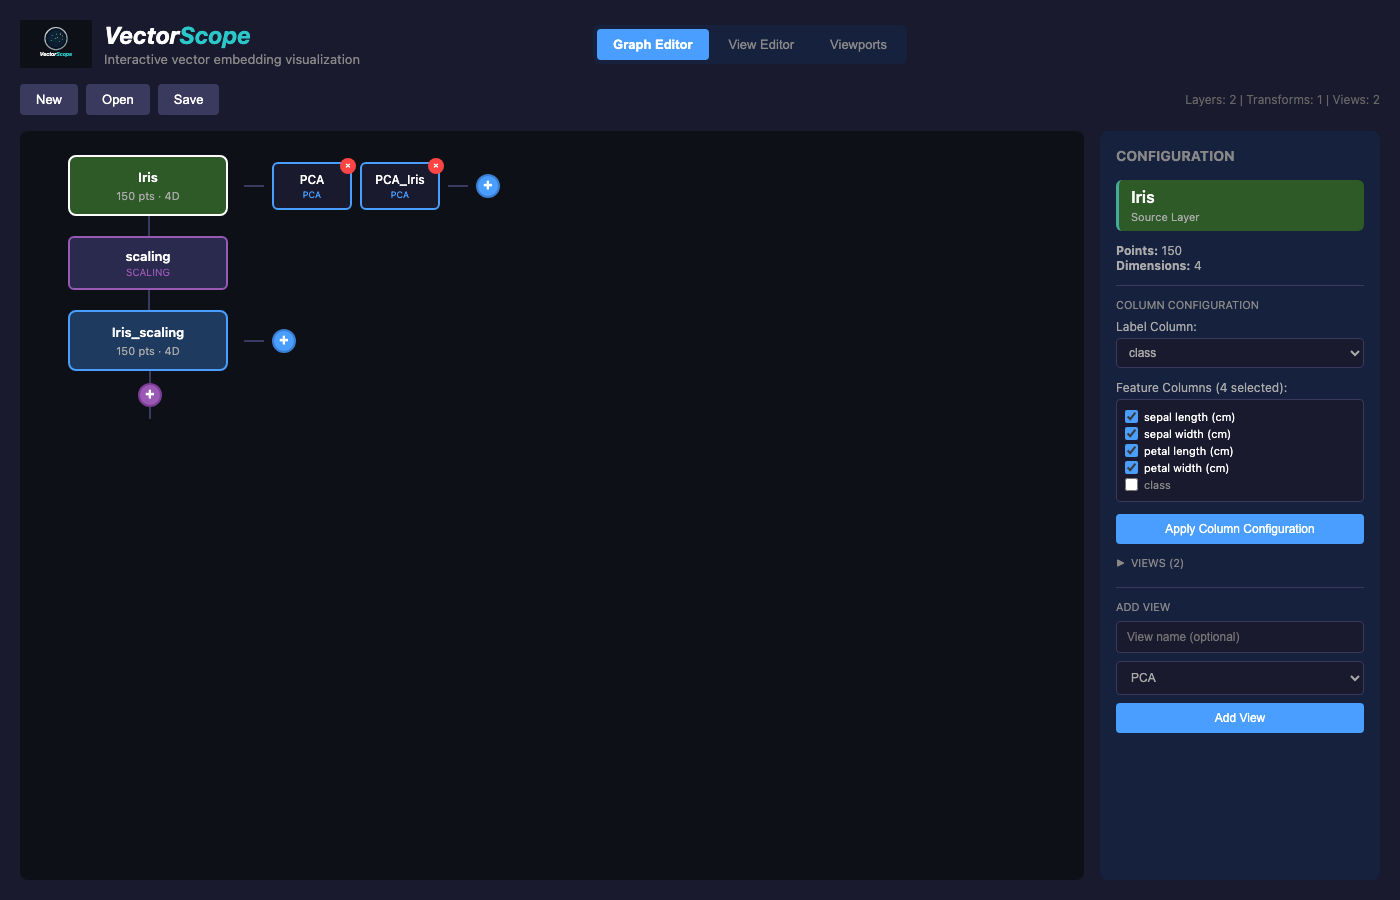
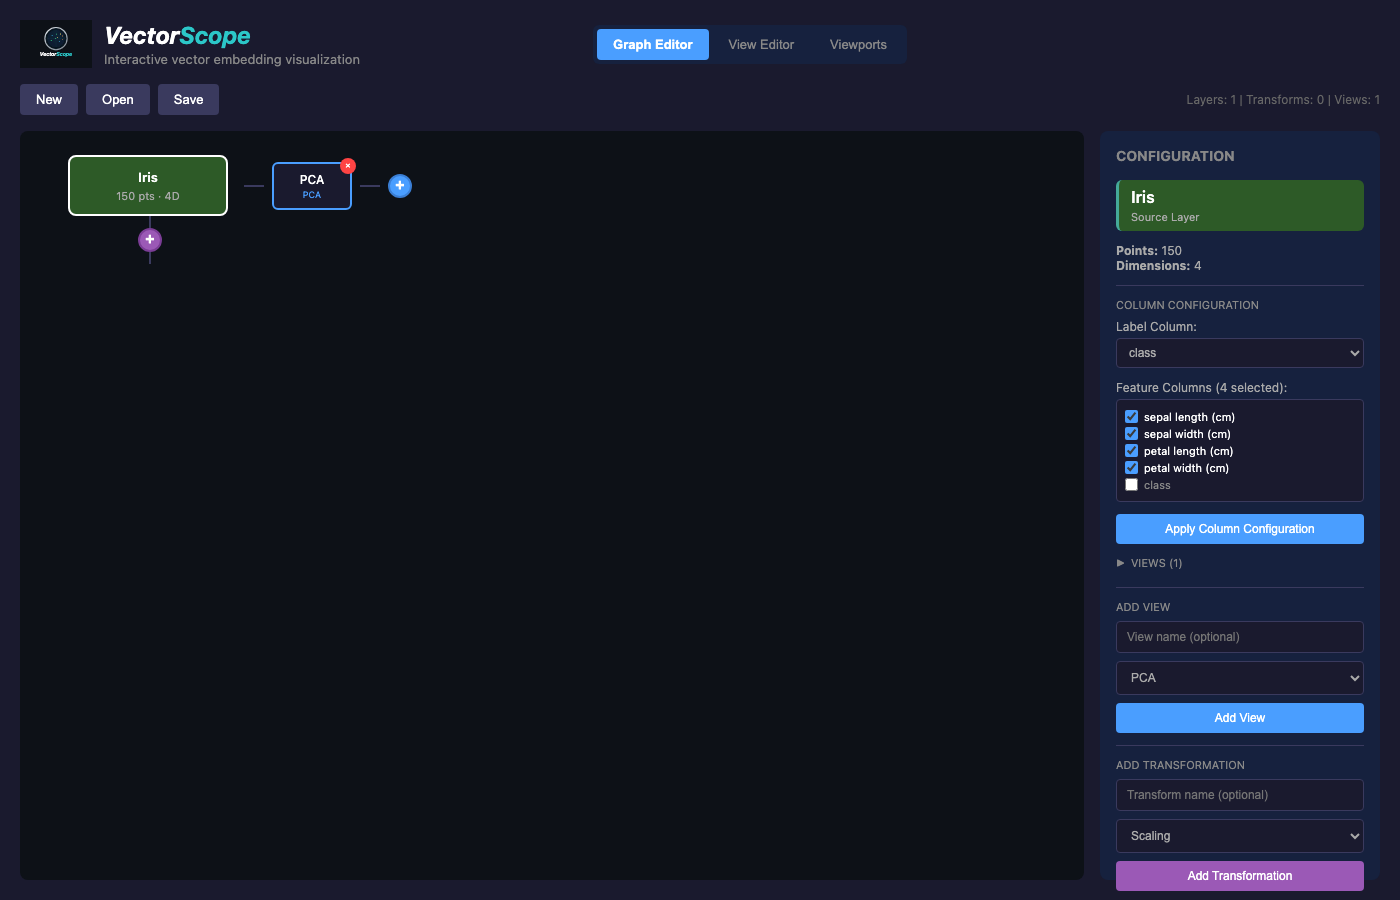
Update quickstart for pip install and refresh screenshots
- Add PyPI installation instructions (Option A) to quickstart
- Clarify development installation (Option B) for full UI
- Update screenshot capture script with better selectors
- Refresh screenshots (view_editor now shows plot, viewports updated)

Note: graph_with_view.png still shows PCA - script needs adjustment
to properly select t-SNE from dropdown before adding view.

🤖 Generated with [Claude Code](https://claude.com/claude-code)

diff --git a/scripts/capture_screenshots.py b/scripts/capture_screenshots.py
@@ -14,7 +14,7 @@ async def capture_screenshots():
     SCREENSHOTS_DIR.mkdir(parents=True, exist_ok=True)
 
     async with async_playwright() as p:
-        browser = await p.chromium.launch()
+        browser = await p.chromium.launch(headless=True)
         page = await browser.new_page(viewport={"width": 1400, "height": 900})
 
         # Navigate to the app
@@ -22,108 +22,123 @@ async def capture_screenshots():
         await page.wait_for_timeout(2000)
 
         # Screenshot 1: Initial empty state with logo
-        await page.screenshot(path=SCREENSHOTS_DIR / "01_initial_state.png")
-        print("Captured: 01_initial_state.png")
+        await page.screenshot(path=SCREENSHOTS_DIR / "initial_state.png")
+        print("Captured: initial_state.png")
 
         # Load Iris dataset
         try:
-            await page.click("button:has-text('Load Dataset')")
+            await page.click("text=Load Dataset")
             await page.wait_for_timeout(500)
-            await page.click("button:has-text('iris')")
-            await page.wait_for_timeout(2000)
+            await page.click("text=iris")
+            await page.wait_for_timeout(2500)
 
             # Screenshot 2: Graph editor with Iris dataset
-            await page.screenshot(path=SCREENSHOTS_DIR / "02_graph_editor_iris.png")
-            print("Captured: 02_graph_editor_iris.png")
+            await page.screenshot(path=SCREENSHOTS_DIR / "graph_editor.png")
+            print("Captured: graph_editor.png")
         except Exception as e:
             print(f"Note: Could not load iris dataset: {e}")
 
-        # Click on the layer node (the green one)
+        # Click on the Iris layer node (look for text containing "Iris")
         try:
-            await page.click("div[data-id]:has(div:has-text('Iris'))", timeout=3000)
+            # Click on the node with "Iris" text
+            await page.click("text=Iris >> nth=0", timeout=5000)
             await page.wait_for_timeout(500)
-            await page.screenshot(path=SCREENSHOTS_DIR / "03_layer_selected.png")
-            print("Captured: 03_layer_selected.png")
         except Exception as e:
             print(f"Note: Could not click layer node: {e}")
+            # Try clicking on the react-flow pane to trigger selection
+            try:
+                await page.click(".react-flow__node >> nth=0", timeout=3000)
+                await page.wait_for_timeout(500)
+            except:
+                pass
 
-        # Add a PCA view from the layer config
+        # Add a t-SNE view
         try:
-            await page.click("button:has-text('Add View')")
-            await page.wait_for_timeout(1500)
-            await page.screenshot(path=SCREENSHOTS_DIR / "04_view_added.png")
-            print("Captured: 04_view_added.png")
+            # Find the view type select in the config panel and change to t-SNE
+            # The select for view type should be visible when layer is selected
+            selects = await page.query_selector_all("select")
+            for select in selects:
+                options = await select.query_selector_all("option")
+                for opt in options:
+                    text = await opt.text_content()
+                    if "tsne" in text.lower() or "t-sne" in text.lower():
+                        await select.select_option(label=text)
+                        await page.wait_for_timeout(300)
+                        break
+
+            await page.click("text=Add View")
+            await page.wait_for_timeout(3000)  # t-SNE takes longer
+
+            # Screenshot 3: Graph with t-SNE view added
+            await page.screenshot(path=SCREENSHOTS_DIR / "graph_with_view.png")
+            print("Captured: graph_with_view.png")
         except Exception as e:
-            print(f"Note: Could not add view: {e}")
+            print(f"Note: Could not add t-SNE view: {e}")
 
         # Add a transformation
         try:
-            await page.click("button:has-text('Add Transformation')")
-            await page.wait_for_timeout(1500)
-            await page.screenshot(path=SCREENSHOTS_DIR / "05_transformation_added.png")
-            print("Captured: 05_transformation_added.png")
+            # Click on Iris layer again
+            await page.click("text=Iris >> nth=0", timeout=3000)
+            await page.wait_for_timeout(500)
+
+            await page.click("text=Add Transformation")
+            await page.wait_for_timeout(2000)
+
+            # Screenshot 4: Graph with transformation added
+            await page.screenshot(path=SCREENSHOTS_DIR / "graph_with_transformation.png")
+            print("Captured: graph_with_transformation.png")
         except Exception as e:
             print(f"Note: Could not add transformation: {e}")
 
-        # Click on transformation node to show config with sliders
+        # Switch to View Editor and select a view
         try:
-            await page.click("div[data-id]:has(div:has-text('scaling'))", timeout=3000)
-            await page.wait_for_timeout(500)
-            await page.screenshot(path=SCREENSHOTS_DIR / "06_scaling_config.png")
-            print("Captured: 06_scaling_config.png")
-        except Exception as e:
-            print(f"Note: Could not show scaling config: {e}")
-
-        # Switch to View Editor
-        try:
-            await page.click("button:has-text('View Editor')")
+            await page.click("text=View Editor")
             await page.wait_for_timeout(1000)
 
-            # Select a view from dropdown
-            await page.select_option("select", index=1)
-            await page.wait_for_timeout(1500)
-            await page.screenshot(path=SCREENSHOTS_DIR / "07_view_editor.png")
-            print("Captured: 07_view_editor.png")
+            # Find the view selector dropdown and select first view
+            # Look for selects that might contain view options
+            selects = await page.query_selector_all("select")
+            for select in selects:
+                options = await select.query_selector_all("option")
+                if len(options) > 1:
+                    # Check if this looks like a view selector
+                    first_opt = await options[0].text_content()
+                    if "view" in first_opt.lower() or "select" in first_opt.lower():
+                        # Select the second option (first actual view)
+                        await select.select_option(index=1)
+                        await page.wait_for_timeout(2000)
+                        break
+
+            # Screenshot 5: View editor with scatter plot
+            await page.screenshot(path=SCREENSHOTS_DIR / "view_editor.png")
+            print("Captured: view_editor.png")
         except Exception as e:
             print(f"Note: Could not switch to view editor: {e}")
 
-        # Switch to Viewports and add multiple views
+        # Switch to Viewports
         try:
-            await page.click("button:has-text('Viewports')")
+            await page.click("text=Viewports")
             await page.wait_for_timeout(1000)
 
-            # Add a viewport
-            await page.click("button:has-text('Add Viewport')")
+            # Add viewport
+            await page.click("text=Add Viewport")
             await page.wait_for_timeout(500)
 
-            # Select a projection for the viewport
+            # Select projections for viewports
             selects = await page.query_selector_all("select")
-            if len(selects) > 0:
-                await selects[0].select_option(index=1)
-            await page.wait_for_timeout(1000)
+            for i, select in enumerate(selects[:2]):
+                options = await select.query_selector_all("option")
+                if len(options) > 1:
+                    await select.select_option(index=min(i + 1, len(options) - 1))
+                    await page.wait_for_timeout(500)
 
-            await page.screenshot(path=SCREENSHOTS_DIR / "08_viewports.png")
-            print("Captured: 08_viewports.png")
+            await page.wait_for_timeout(2000)
+
+            # Screenshot 6: Viewports
+            await page.screenshot(path=SCREENSHOTS_DIR / "viewports.png")
+            print("Captured: viewports.png")
         except Exception as e:
             print(f"Note: Could not set up viewports: {e}")
-
-        # Go back to graph and show a more complex graph
-        try:
-            await page.click("button:has-text('Graph Editor')")
-            await page.wait_for_timeout(500)
-
-            # Click on the derived layer
-            await page.click("div[data-id]:has(div:has-text('scaled'))", timeout=3000)
-            await page.wait_for_timeout(500)
-
-            # Add another view to this layer
-            await page.click("button:has-text('Add View')")
-            await page.wait_for_timeout(1500)
-
-            await page.screenshot(path=SCREENSHOTS_DIR / "09_complex_graph.png")
-            print("Captured: 09_complex_graph.png")
-        except Exception as e:
-            print(f"Note: Could not create complex graph: {e}")
 
         await browser.close()
         print(f"\nScreenshots saved to: {SCREENSHOTS_DIR}")

diff --git a/docs/quickstart.rst b/docs/quickstart.rst
@@ -6,10 +6,31 @@ This guide will walk you through your first VectorScope session.
 Starting VectorScope
 --------------------
 
-1. Start the backend and frontend:
+Choose the appropriate method based on how you installed VectorScope.
+
+**Option A: PyPI Installation (API only)**
+
+If you installed via ``pip install vectorscope``, start the backend server:
 
 .. code-block:: bash
 
+   uvicorn backend.main:app --port 8000
+
+The REST API will be available at http://localhost:8000. You can use it with
+your own frontend or API client. See the API documentation for endpoints.
+
+.. note::
+
+   The PyPI package includes only the backend API. For the full interactive UI,
+   use the development installation below.
+
+**Option B: Development Installation (Full UI)**
+
+If you cloned the repository and installed with Pixi:
+
+.. code-block:: bash
+
+   # Start both backend and frontend
    pixi run dev
 
 Or start them separately:
@@ -22,19 +43,19 @@ Or start them separately:
    # Terminal 2: Frontend (default port 5173)
    cd frontend && npm run dev
 
-2. Open http://localhost:5173 in your browser.
+Open http://localhost:5173 in your browser.
 
 **Configuring Ports**
 
 By default, the backend runs on port 8000 and the frontend on port 5173.
 
-To change the backend port, modify ``pixi.toml``:
+To change the backend port:
 
-.. code-block:: toml
+.. code-block:: bash
 
-   backend = "uvicorn backend.main:app --reload --port 8001"
+   uvicorn backend.main:app --port 8001
 
-To change the frontend port, run with the ``--port`` flag:
+To change the frontend port:
 
 .. code-block:: bash
 
